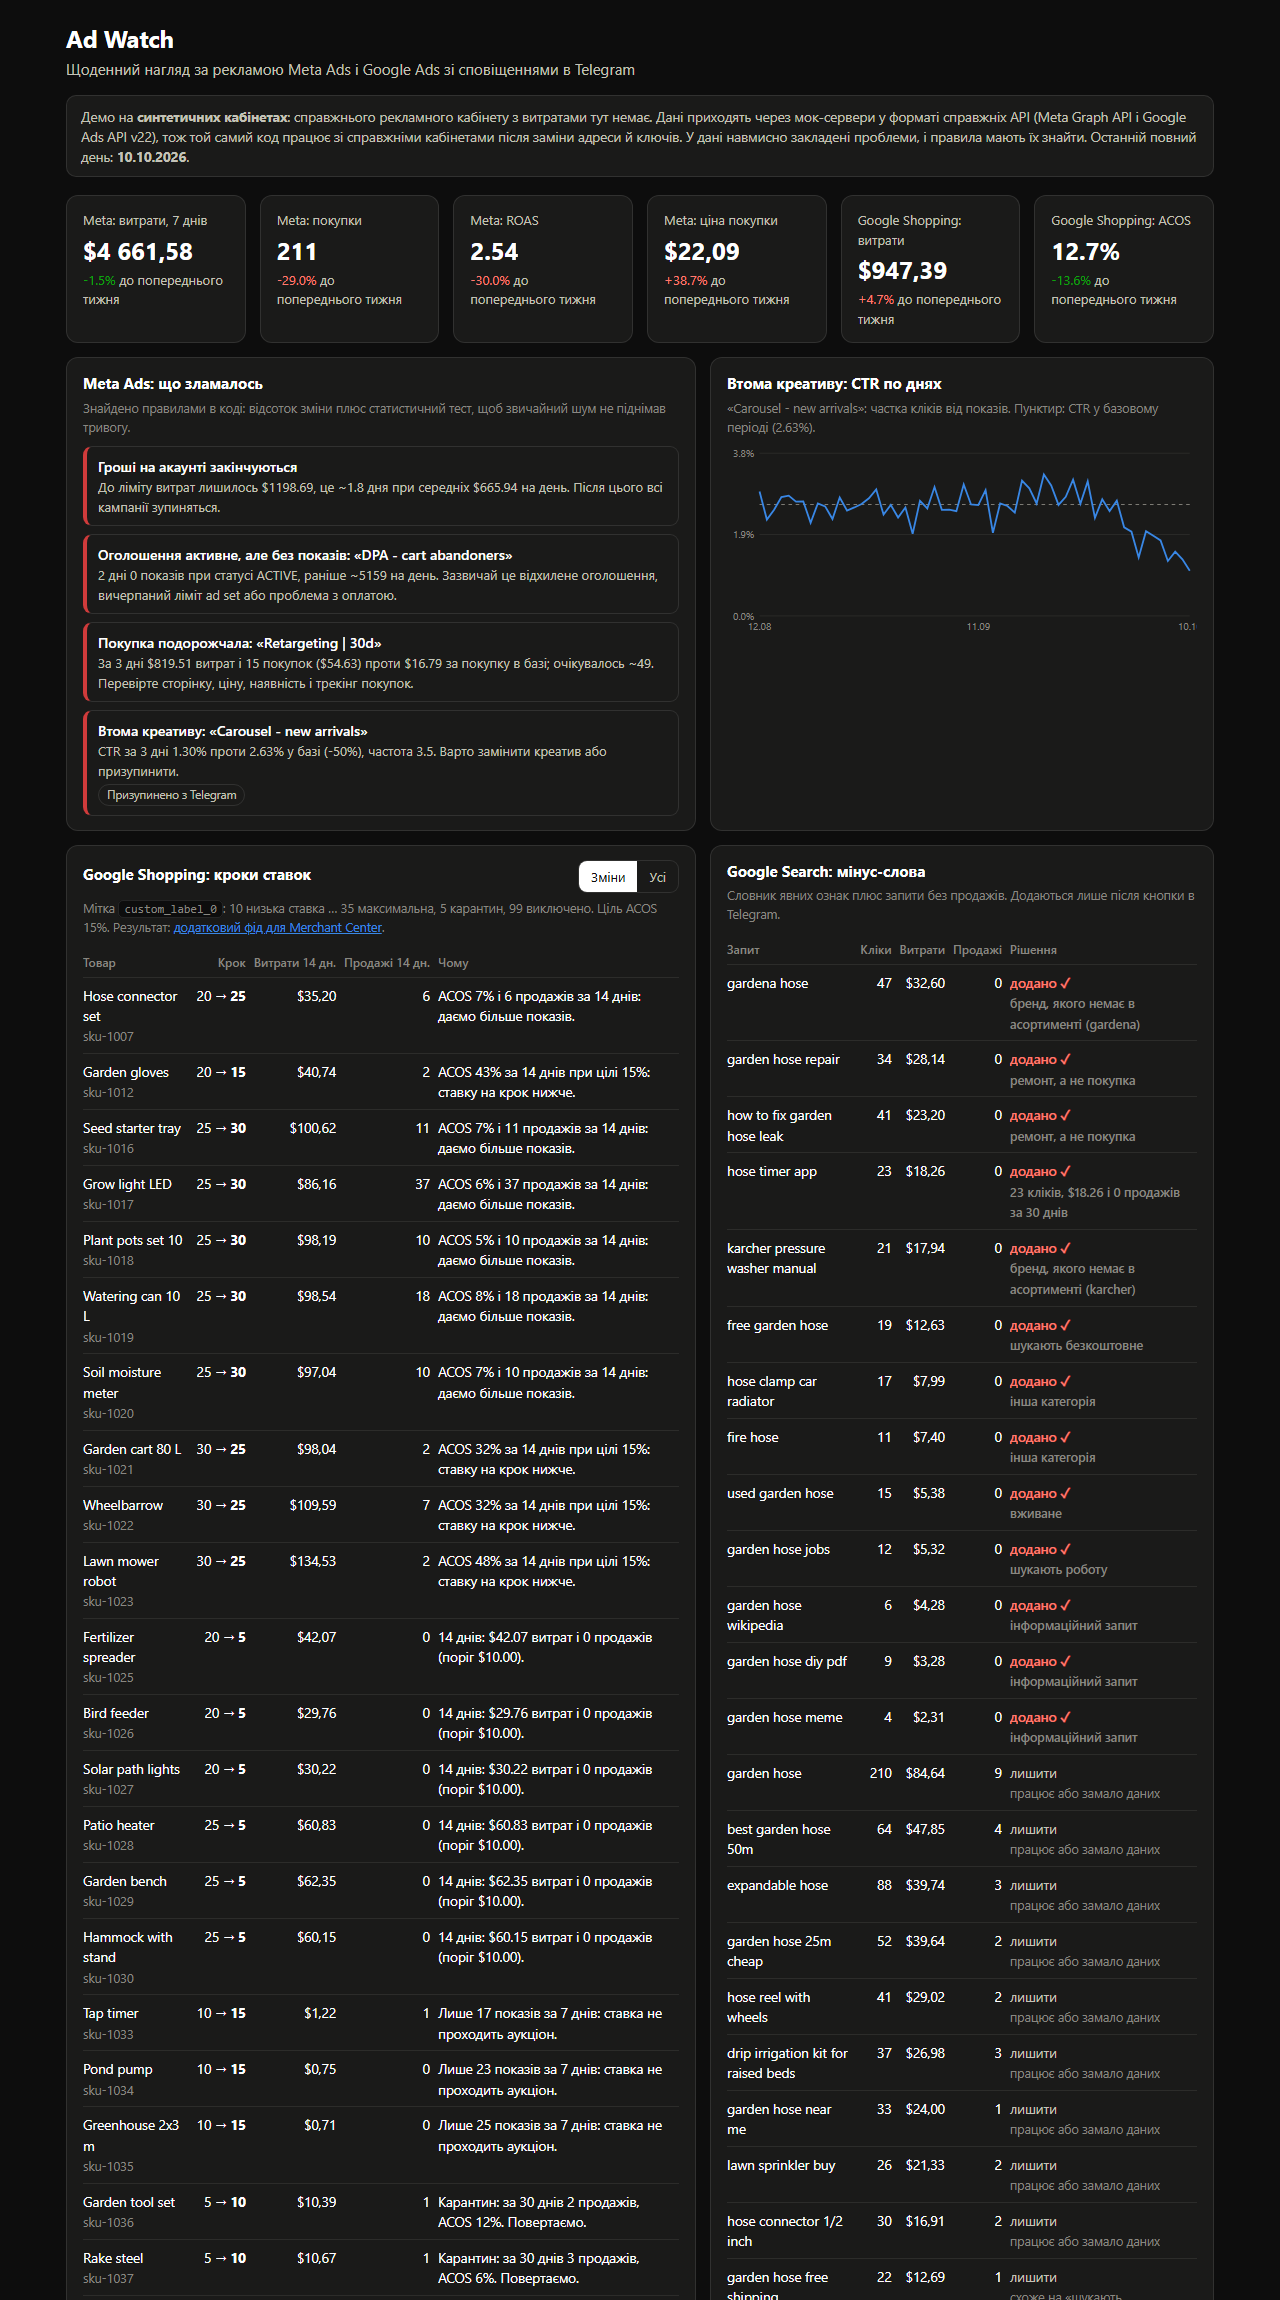
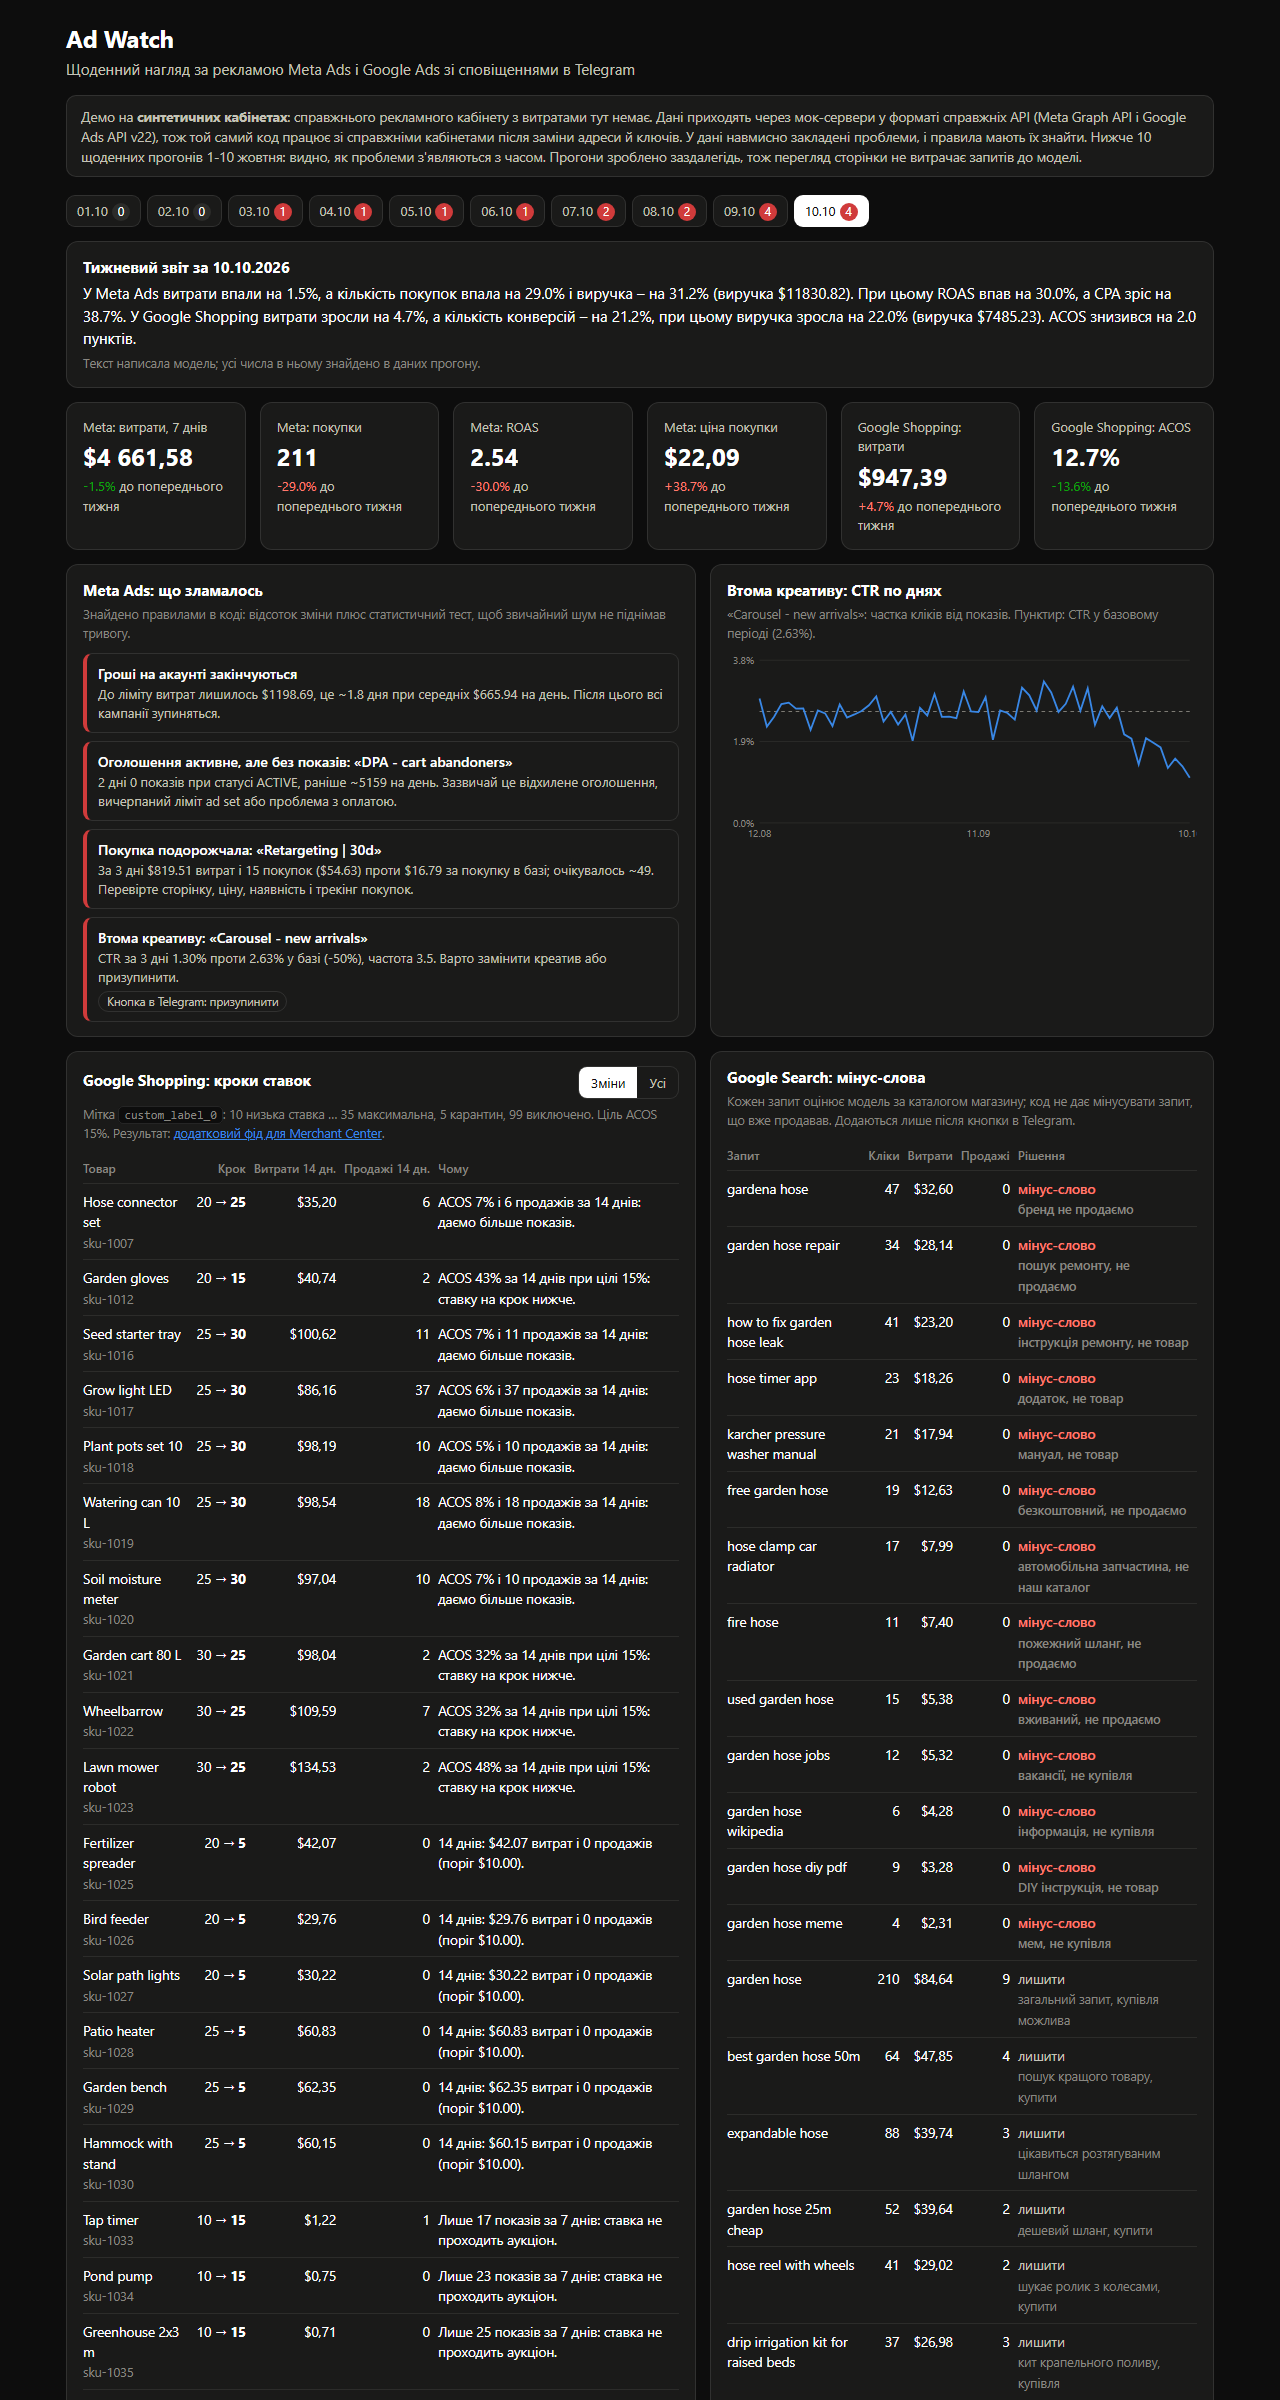
readme: dashboard and Telegram demo GIFs, fresh screenshots

diff --git a/README.md b/README.md
@@ -8,7 +8,14 @@ and collects negative keywords.
 
 **Live demo:** https://ad-watch-six.vercel.app (UI in Ukrainian)
 
-![Dashboard: Meta problems, CTR of the fatigued ad, Shopping bid steps, negative keywords](docs/dashboard-light.png)
+![Dashboard: switching between daily runs 1-10 October, problems appear over time; Shopping bid steps and negative keywords](docs/dashboard-demo.gif)
+
+Telegram, recorded on the deployed service: the overview, the creative-fatigue alert, **Pause**
+tapped, the message is edited with the result; then the negative keywords, **Add all** tapped,
+13 added. The taps were sent as the same `callback_query` Telegram posts to the webhook (the
+orange dot marks each one); the personal chat list on the left is blurred.
+
+![Telegram: alert, Pause, result; negative keywords, Add all, result](docs/telegram-demo.gif)
 
 The ad accounts are synthetic: there is no real account with real spend behind this demo.
 The data is served by mock servers that speak the **real wire formats** (Meta Graph API
